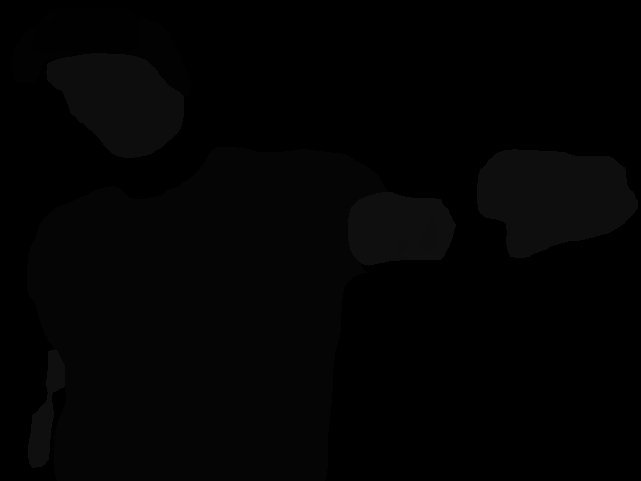
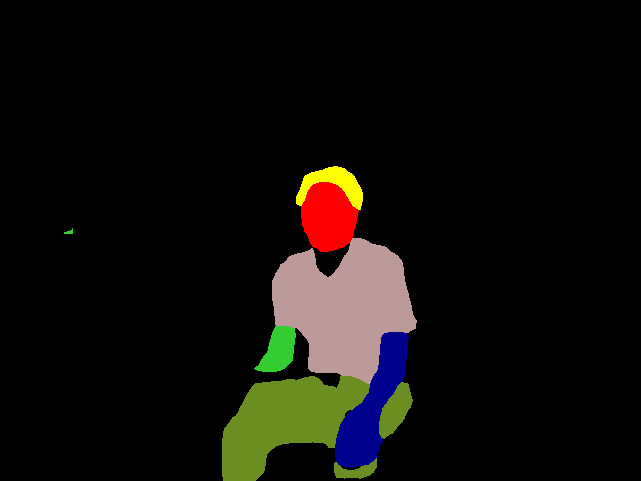
colorize_code

Changed region(s): [[0.3432, 0.343, 0.6552, 1.0]]

diff --git a/create_colormap.py b/create_colormap.py
@@ -1,0 +1,273 @@
+#!/usr/bin/env python
+# -*- coding: utf-8 -*
+"""
+This script creates the colormap for cv2.LUT in test_segmentation scripts
+"""
+import numpy as np
+import sys
+sys.path.append('/usr/local/lib/python2.7/site-packages')
+import cv2
+
+def lut():
+    lut1 = np.array([[[0, 0, 0],       # background
+                     [244, 35, 232],   # hat
+                     [255, 255, 0],    # hair
+                     [70, 70, 70],     # glove
+                     [102, 102, 156],  # sunglasses
+                     [190, 153, 153],  # upperclothes
+                     [153, 153, 153],  # dress
+                     [250, 170, 30],   # coat
+                     [220, 220, 0],    # socks
+                     [107, 142, 35],   # pants
+                     [152, 251, 152],  # jumpsuits
+                     [70, 130, 180],   # scarf
+                     [220, 20, 60],    # skirt
+                     [255, 0, 0],      # face
+                     [0, 0, 142],      # leftArm
+                     [51, 204, 51],    # rightArm
+                     [0, 60, 100],     # leftLeg
+                     [0, 80, 100],     # rightLeg
+                     [0, 0, 230],      # leftShoe
+                     [119, 11, 32],    # rightShoe
+                     [0, 0, 0],
+                     [0, 0, 0],
+                     [0, 0, 0],
+                     [0, 0, 0],
+                     [0, 0, 0],
+                     [0, 0, 0],
+                     [0, 0, 0],
+                     [0, 0, 0],
+                     [0, 0, 0],
+                     [0, 0, 0],
+                     [0, 0, 0],
+                     [0, 0, 0],
+                     [0, 0, 0],
+                     [0, 0, 0],
+                     [0, 0, 0],
+                     [0, 0, 0],
+                     [0, 0, 0],
+                     [0, 0, 0],
+                     [0, 0, 0],
+                     [0, 0, 0],
+                     [0, 0, 0],
+                     [0, 0, 0],
+                     [0, 0, 0],
+                     [0, 0, 0],
+                     [0, 0, 0],
+                     [0, 0, 0],
+                     [0, 0, 0],
+                     [0, 0, 0],
+                     [0, 0, 0],
+                     [0, 0, 0],
+                     [0, 0, 0],
+                     [0, 0, 0],
+                     [0, 0, 0],
+                     [0, 0, 0],
+                     [0, 0, 0],
+                     [0, 0, 0],
+                     [0, 0, 0],
+                     [0, 0, 0],
+                     [0, 0, 0],
+                     [0, 0, 0],
+                     [0, 0, 0],
+                     [0, 0, 0],
+                     [0, 0, 0],
+                     [0, 0, 0],
+                     [0, 0, 0],
+                     [0, 0, 0],
+                     [0, 0, 0],
+                     [0, 0, 0],
+                     [0, 0, 0],
+                     [0, 0, 0],
+                     [0, 0, 0],
+                     [0, 0, 0],
+                     [0, 0, 0],
+                     [0, 0, 0],
+                     [0, 0, 0],
+                     [0, 0, 0],
+                     [0, 0, 0],
+                     [0, 0, 0],
+                     [0, 0, 0],
+                     [0, 0, 0],
+                     [0, 0, 0],
+                     [0, 0, 0],
+                     [0, 0, 0],
+                     [0, 0, 0],
+                     [0, 0, 0],
+                     [0, 0, 0],
+                     [0, 0, 0],
+                     [0, 0, 0],
+                     [0, 0, 0],
+                     [0, 0, 0],
+                     [0, 0, 0],
+                     [0, 0, 0],
+                     [0, 0, 0],
+                     [0, 0, 0],
+                     [0, 0, 0],
+                     [0, 0, 0],
+                     [0, 0, 0],
+                     [0, 0, 0],
+                     [0, 0, 0],
+                     [0, 0, 0],
+                     [0, 0, 0],
+                     [0, 0, 0],
+                     [0, 0, 0],
+                     [0, 0, 0],
+                     [0, 0, 0],
+                     [0, 0, 0],
+                     [0, 0, 0],
+                     [0, 0, 0],
+                     [0, 0, 0],
+                     [0, 0, 0],
+                     [0, 0, 0],
+                     [0, 0, 0],
+                     [0, 0, 0],
+                     [0, 0, 0],
+                     [0, 0, 0],
+                     [0, 0, 0],
+                     [0, 0, 0],
+                     [0, 0, 0],
+                     [0, 0, 0],
+                     [0, 0, 0],
+                     [0, 0, 0],
+                     [0, 0, 0],
+                     [0, 0, 0],
+                     [0, 0, 0],
+                     [0, 0, 0],
+                     [0, 0, 0],
+                     [0, 0, 0],
+                     [0, 0, 0],
+                     [0, 0, 0],
+                     [0, 0, 0],
+                     [0, 0, 0],
+                     [0, 0, 0],
+                     [0, 0, 0],
+                     [0, 0, 0],
+                     [0, 0, 0],
+                     [0, 0, 0],
+                     [0, 0, 0],
+                     [0, 0, 0],
+                     [0, 0, 0],
+                     [0, 0, 0],
+                     [0, 0, 0],
+                     [0, 0, 0],
+                     [0, 0, 0],
+                     [0, 0, 0],
+                     [0, 0, 0],
+                     [0, 0, 0],
+                     [0, 0, 0],
+                     [0, 0, 0],
+                     [0, 0, 0],
+                     [0, 0, 0],
+                     [0, 0, 0],
+                     [0, 0, 0],
+                     [0, 0, 0],
+                     [0, 0, 0],
+                     [0, 0, 0],
+                     [0, 0, 0],
+                     [0, 0, 0],
+                     [0, 0, 0],
+                     [0, 0, 0],
+                     [0, 0, 0],
+                     [0, 0, 0],
+                     [0, 0, 0],
+                     [0, 0, 0],
+                     [0, 0, 0],
+                     [0, 0, 0],
+                     [0, 0, 0],
+                     [0, 0, 0],
+                     [0, 0, 0],
+                     [0, 0, 0],
+                     [0, 0, 0],
+                     [0, 0, 0],
+                     [0, 0, 0],
+                     [0, 0, 0],
+                     [0, 0, 0],
+                     [0, 0, 0],
+                     [0, 0, 0],
+                     [0, 0, 0],
+                     [0, 0, 0],
+                     [0, 0, 0],
+                     [0, 0, 0],
+                     [0, 0, 0],
+                     [0, 0, 0],
+                     [0, 0, 0],
+                     [0, 0, 0],
+                     [0, 0, 0],
+                     [0, 0, 0],
+                     [0, 0, 0],
+                     [0, 0, 0],
+                     [0, 0, 0],
+                     [0, 0, 0],
+                     [0, 0, 0],
+                     [0, 0, 0],
+                     [0, 0, 0],
+                     [0, 0, 0],
+                     [0, 0, 0],
+                     [0, 0, 0],
+                     [0, 0, 0],
+                     [0, 0, 0],
+                     [0, 0, 0],
+                     [0, 0, 0],
+                     [0, 0, 0],
+                     [0, 0, 0],
+                     [0, 0, 0],
+                     [0, 0, 0],
+                     [0, 0, 0],
+                     [0, 0, 0],
+                     [0, 0, 0],
+                     [0, 0, 0],
+                     [0, 0, 0],
+                     [0, 0, 0],
+                     [0, 0, 0],
+                     [0, 0, 0],
+                     [0, 0, 0],
+                     [0, 0, 0],
+                     [0, 0, 0],
+                     [0, 0, 0],
+                     [0, 0, 0],
+                     [0, 0, 0],
+                     [0, 0, 0],
+                     [0, 0, 0],
+                     [0, 0, 0],
+                     [0, 0, 0],
+                     [0, 0, 0],
+                     [0, 0, 0],
+                     [0, 0, 0],
+                     [0, 0, 0],
+                     [0, 0, 0],
+                     [0, 0, 0],
+                     [0, 0, 0],
+                     [0, 0, 0],
+                     [0, 0, 0],
+                     [0, 0, 0],
+                     [0, 0, 0],
+                     [0, 0, 0],
+                     [0, 0, 0],
+                     [0, 0, 0],
+                     [0, 0, 0],
+                     [0, 0, 0],
+                     [0, 0, 0],
+                     [0, 0, 0],
+                     [0, 0, 0],
+                     [0, 0, 0],
+                     [0, 0, 0],
+                     [0, 0, 0],
+                     [0, 0, 0],
+                     [0, 0, 0],
+                     [0, 0, 0],
+                     [0, 0, 0],
+                     [0, 0, 0],
+                     [0, 0, 0],
+                     [0, 0, 0],
+                     [0, 0, 0],
+                     [0, 0, 0],
+                     [0, 0, 0],
+                     [0, 0, 0],
+                     [0, 0, 0]]])
+    return lut1
+
+if __name__ == '__main__':
+
+    im_color = lut()
+    cv2.imwrite('human_parsing.png', im_color)

diff --git a/test_segmentation.py b/test_segmentation.py
@@ -1,8 +1,5 @@
 import os
 import numpy as np
-from argparse import ArgumentParser
-from os.path import join
-import argparse
 import sys
 
 caffe_root = os.getcwd() + "/code/"
@@ -21,7 +18,8 @@ if __name__ == '__main__':
 
     model_path = "/home/btran/publicWorkspace/dev/LIP_SSL/human/config/attention/deploy.prototxt"
     weight_path = "/home/btran/publicWorkspace/dev/LIP_SSL/human/model/attention/attention+ssl.caffemodel"
-
+    label_colours = cv2.imread("human_parsing.png", 1).astype(np.uint8)
+    
     mean = [104.008, 116.669, 122.675]
     
     net = caffe.Net(model_path, weight_path, caffe.TEST)
@@ -30,9 +28,7 @@ if __name__ == '__main__':
 
     output_shape = net.blobs['fc8_interp'].data.shape
 
-    label_colours = cv2.imread("attention.png").astype(np.uint8)
-    
-    imgfile = './temp.png'
+    imgfile = './166.jpg'
     img = cv2.imread(imgfile, 1)
     img = img.astype(np.float32)
     img -= mean
@@ -42,5 +38,12 @@ if __name__ == '__main__':
     out = net.forward()
 
     prediction = net.blobs['fc8_mask'].data[0, ...][0]
-    cv2.imwrite("prediction.png", prediction)    
+    prediction = prediction.astype(np.int8)
+    prediction = cv2.merge((prediction, prediction, prediction))
+
+    prediction_rgb = np.zeros(prediction.shape, dtype=np.uint8)
+
+    label_colours_bgr = label_colours[..., ::-1]
+    cv2.LUT(prediction, label_colours_bgr, prediction_rgb)
     
+    cv2.imwrite("prediction.png", prediction_rgb)        
